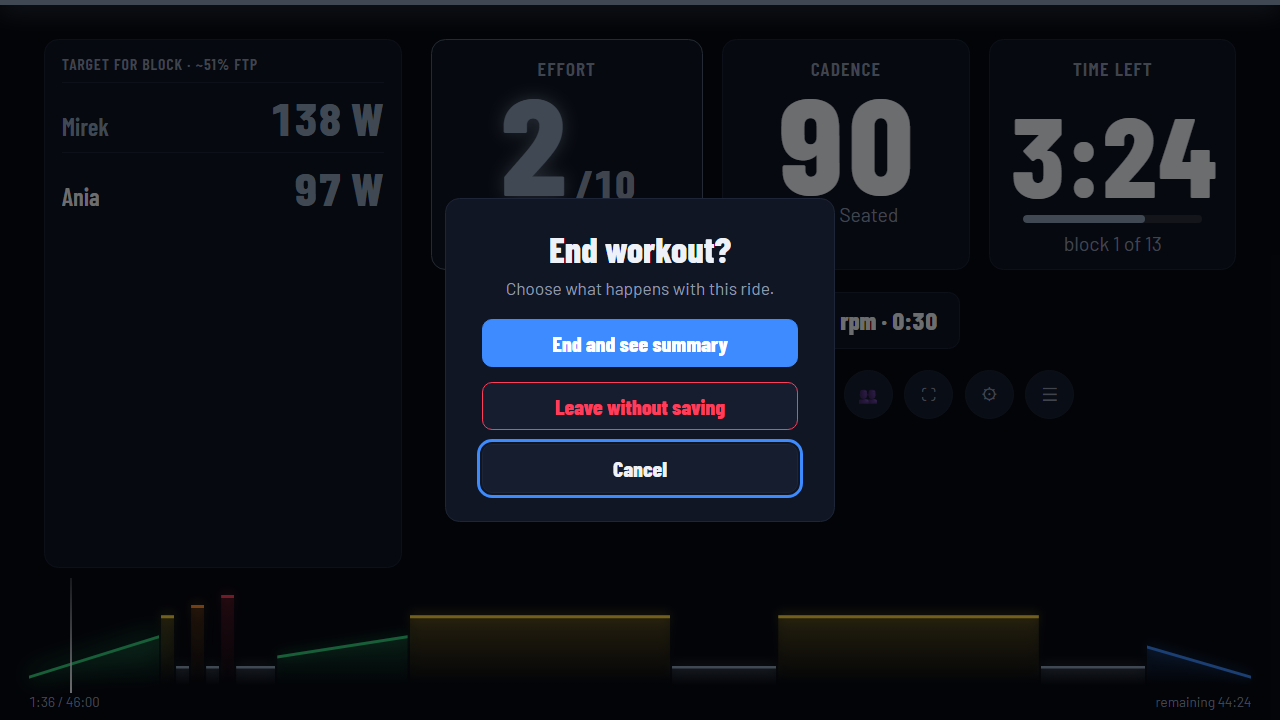
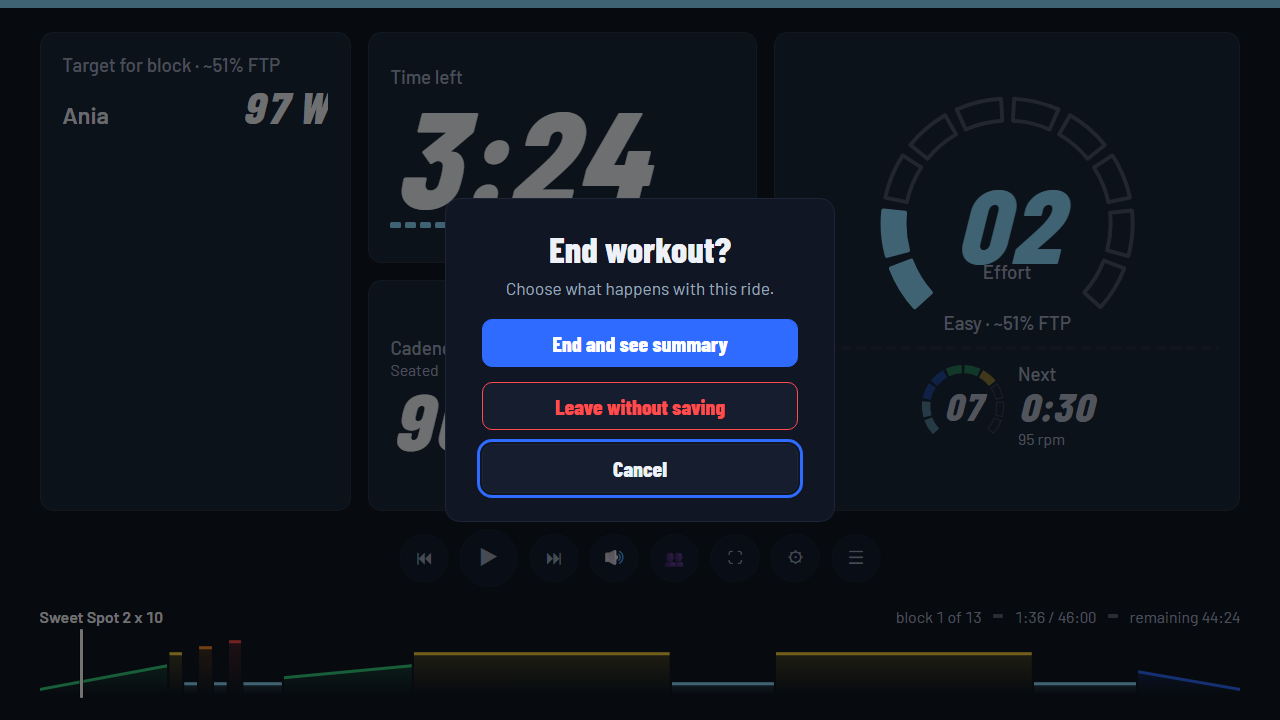
docs: refresh screenshots for HyperCycling
Also adapt the screenshot script to the World background tile (the Immersive overlay radio is gone).

diff --git a/scripts/docs-screenshots.ts b/scripts/docs-screenshots.ts
@@ -117,11 +117,10 @@ async function main(): Promise<void> {
     await page.getByTestId('summary-screen').waitFor();
     await shot(page, 'summary');
 
-    // Hyperride with the Immersive overlay.
+    // World background (the default world).
     await page.goto(`${ORIGIN}#/setup/${WORKOUT}`);
     await page.getByTestId('setup-screen').waitFor();
-    await page.getByRole('button', { name: 'Hyperride', exact: true }).click();
-    await page.getByRole('radio', { name: 'Immersive' }).click();
+    await page.getByRole('button', { name: /^World/ }).click();
     await page.getByRole('button', { name: 'Start', exact: true }).click();
     await page.getByTestId('training-screen').waitFor();
     await page.keyboard.press('Space');
